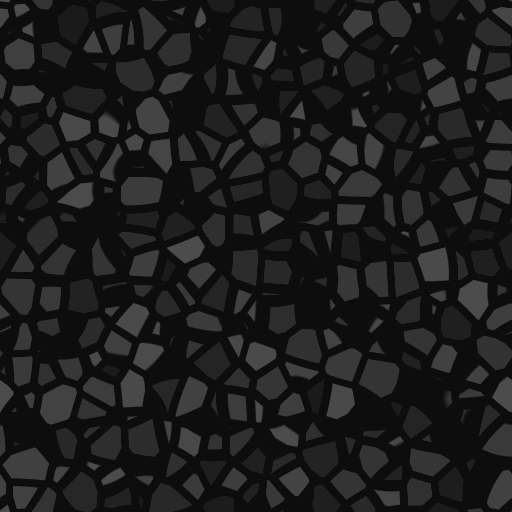
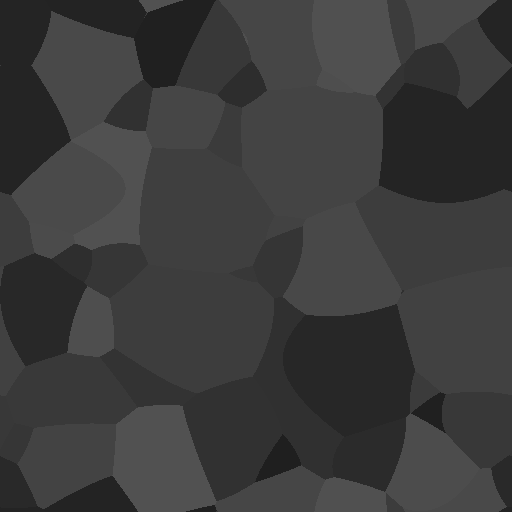
Tier coat: per-part raptor ColorMaps baked in original Roblox UVs (edge-bleed alpha), large-facet normal/roughness, per-species Tier.Maps

diff --git a/docs/77-asset-registry.md b/docs/77-asset-registry.md
@@ -75,10 +75,8 @@ Every art asset the game uses at runtime. Add a line here when an asset is added
 | sfx ui_click | sound | assets/audio/sfx/ui_click.wav | - | src/shared/Sfx.luau | planned |
 | sfx weather_start | sound | assets/audio/sfx/weather_start.wav | - | src/shared/Sfx.luau | planned |
 
-| tier_gold_crystal_color | texture 512 px RGBA tileable (Blender Cycles bake, 4D torus Voronoi facets, alpha 0.25-0.6 + opaque edge lines) | resources/effects/tiers/tier-gold-color.png | - (owner uploads) | src/shared/LowPolyTier.luau Tier.Maps.gold.color -> LowPolyDinos shells SurfaceAppearance (AlphaMode Transparency) | baked 2026-10-16, NOT uploaded, unbound (shell stays plain Glass); edge-bleed from silhouette NOT achievable with UV-independent maps |
-| tier_emerald_crystal_color | texture 512 px RGBA tileable (Blender Cycles bake, 4D torus Voronoi facets, alpha 0.25-0.6 + opaque edge lines) | resources/effects/tiers/tier-emerald-color.png | - (owner uploads) | src/shared/LowPolyTier.luau Tier.Maps.emerald.color -> LowPolyDinos shells SurfaceAppearance (AlphaMode Transparency) | baked 2026-10-16, NOT uploaded, unbound (shell stays plain Glass); edge-bleed from silhouette NOT achievable with UV-independent maps |
-| tier_diamond_crystal_color | texture 512 px RGBA tileable (Blender Cycles bake, 4D torus Voronoi facets, alpha 0.25-0.6 + opaque edge lines) | resources/effects/tiers/tier-diamond-color.png | - (owner uploads) | src/shared/LowPolyTier.luau Tier.Maps.diamond.color -> LowPolyDinos shells SurfaceAppearance (AlphaMode Transparency) | baked 2026-10-16, NOT uploaded, unbound (shell stays plain Glass); edge-bleed from silhouette NOT achievable with UV-independent maps |
-| tier_crystal_normal | texture 512 px tileable normal map (Blender bake, flat crystal facets) | resources/effects/tiers/tier-crystal-normal.png | - (owner uploads) | Tier.Maps.normal | baked 2026-10-16, NOT uploaded |
+| raptor_tier_color_<part>_<tier> (21 files: body/head/tail/leftarm/rightarm/leftleg/rightleg x gold/emerald/diamond) | texture 512 px RGBA, Blender Cycles bake in each part's original Roblox UVs (raptor.obj): tier colour, alpha ~0.9 at silhouette edges to ~0.1 in the middle + large facet highlights | resources/effects/tiers/raptor-<part>-<tier>-color.png | - (owner uploads) | src/shared/LowPolyTier.luau Tier.Maps.color.raptor[part][tier] -> LowPolyDinos shells SurfaceAppearance (AlphaMode Transparency) | baked 2026-10-16, NOT uploaded; V axis flipped on save (assumes OBJ vt is raw Roblox top-down V; verify with one part in Studio) |
+| tier_crystal_normal | texture 512 px tileable normal map (Blender bake, large flat crystal facets) | resources/effects/tiers/tier-crystal-normal.png | - (owner uploads) | Tier.Maps.normal | baked 2026-10-16, NOT uploaded |
 | tier_crystal_roughness | texture 512 px tileable roughness (Blender bake) | resources/effects/tiers/tier-crystal-roughness.png | - (owner uploads) | Tier.Maps.roughness | baked 2026-10-16, NOT uploaded |
 
 Notes
